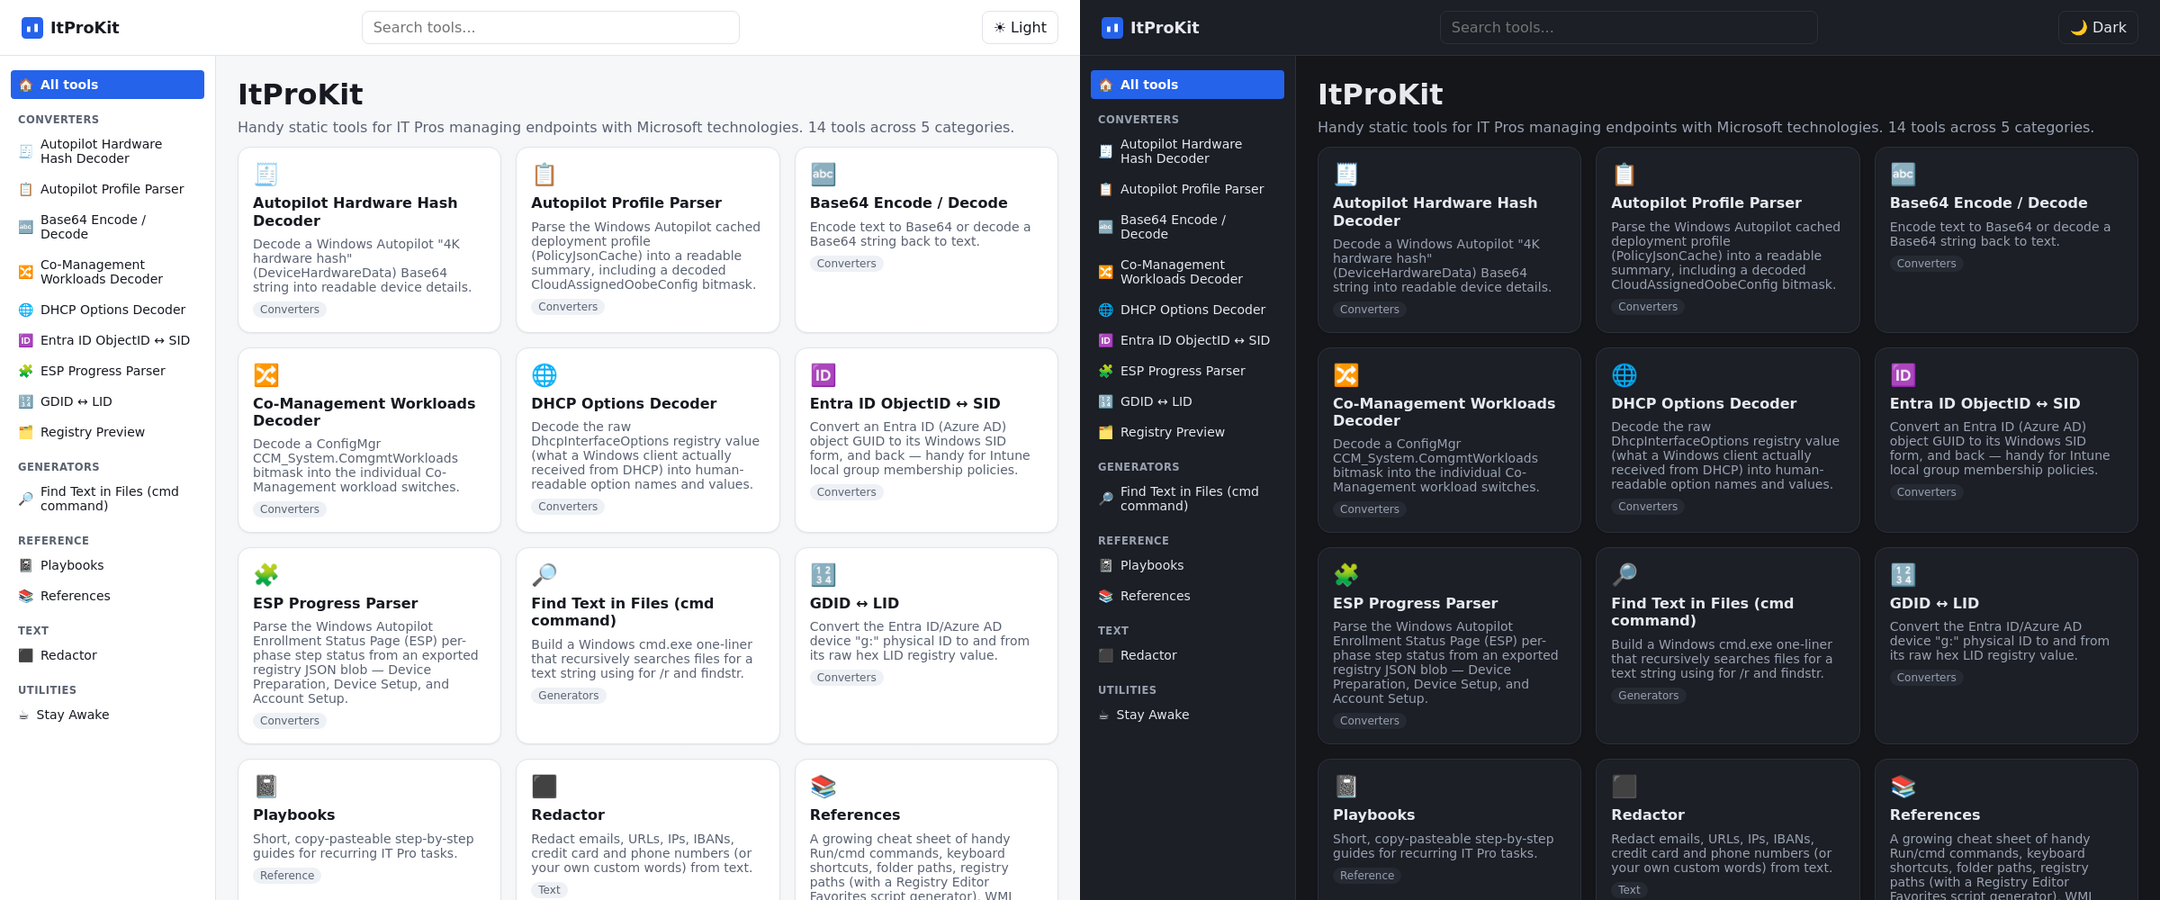
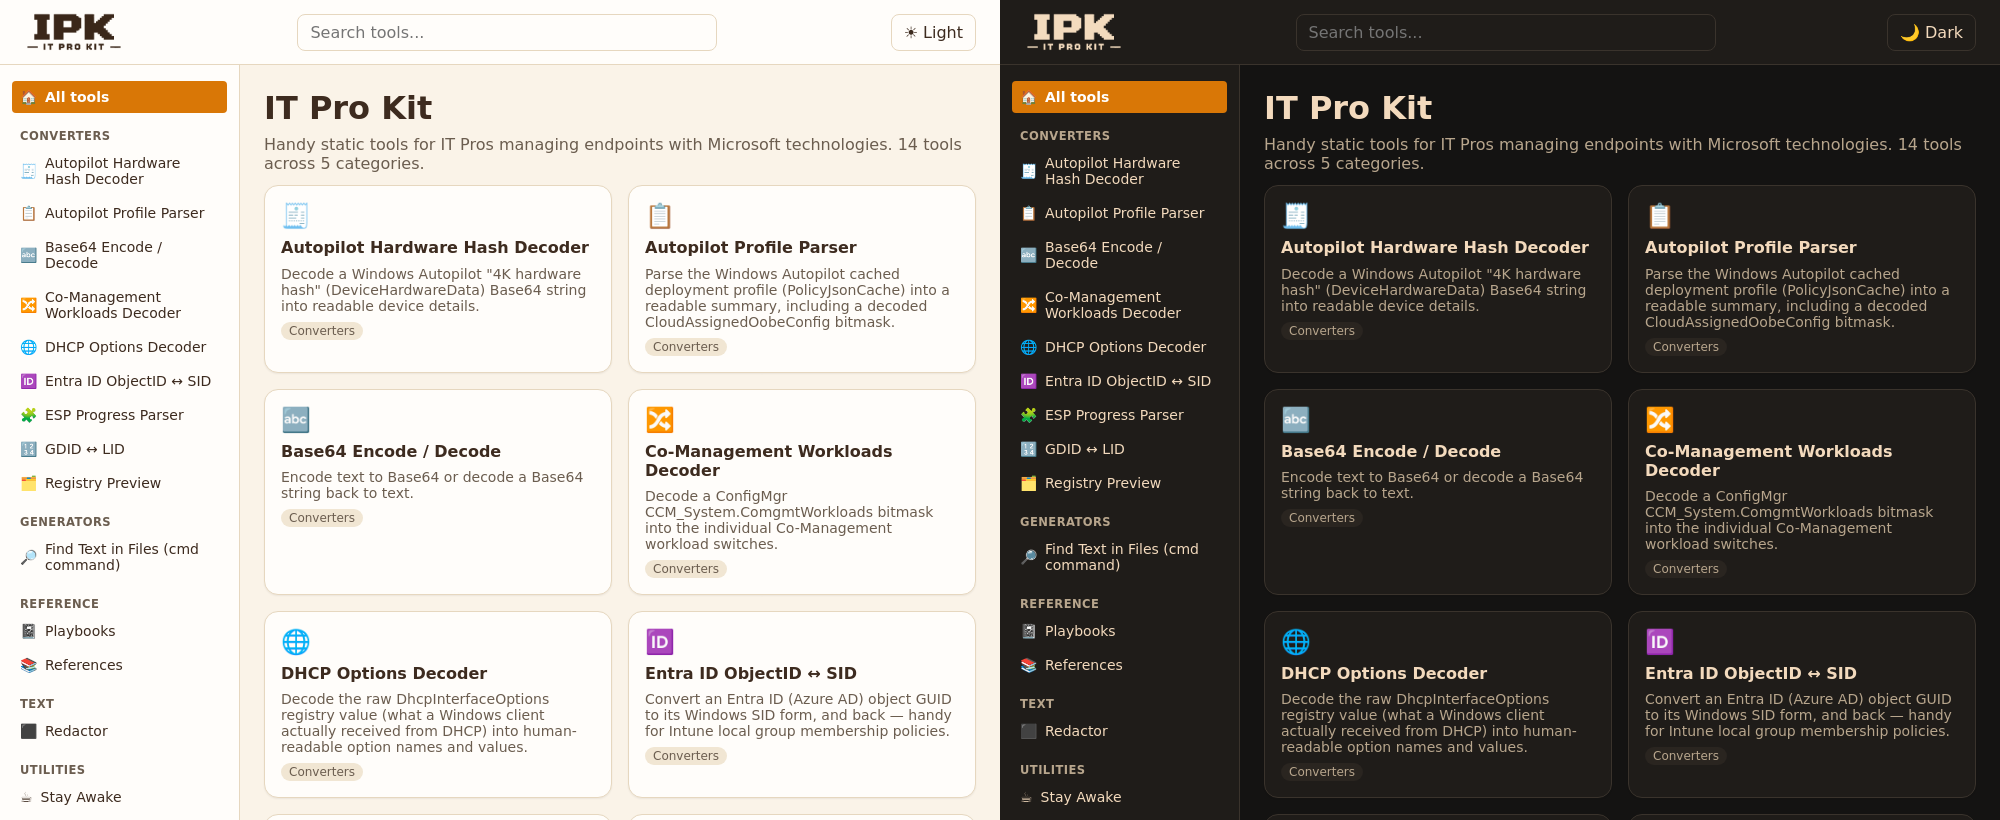
feat(about): add license, author, and contributing sections; fix sidebar nav
- Add MIT LICENSE and reference it from package.json and the About page
- Add an Author row noting the project is maintained in a private capacity
- Add a Contributing section pointing to GitHub Issues/PRs
- Box the changelog like the other About cards, with a Details title on the
  first card
- Remove the stray release-it note left at the end of CHANGELOG.md
- Move the About sidebar link into the scrollable nav flow instead of
  pinning it to the bottom of the viewport
- Drop the redundant README H1 (the logo already shows the name) and
  refresh the dashboard screenshot for the new branding/theme

Copilot-Session: 0ea02556-cd5a-4635-be87-623a774aacdc

diff --git a/src/tools/about/index.ts b/src/tools/about/index.ts
@@ -6,7 +6,7 @@ import { hasReleaseEntries, renderChangelogHtml } from "./changelog";
 const tool: ToolDefinition = {
   id: "about",
   name: "About",
-  description: "ItProKit's version, source repository, and release changelog.",
+  description: "IPK's version, source repository, and release changelog.",
   category: "About",
   icon: "ℹ",
   // Linked from a pinned sidebar footer link (see layout.ts), not listed as a
@@ -21,30 +21,66 @@ const tool: ToolDefinition = {
     container.innerHTML = `
       <div class="abt-tool">
         <section class="abt-card">
+          <h2 class="abt-details-title">Details</h2>
           <dl class="abt-facts">
             <dt>Version</dt>
-            <dd><span class="abt-tag">v${__APP_VERSION__}</span></dd>
+            <dd><button type="button" class="abt-tag abt-version" title="v${__APP_VERSION__}">v${__APP_VERSION__}</button></dd>
             <dt>Source</dt>
             <dd>${repoHtml}</dd>
+            <dt>Author</dt>
+            <dd>
+              <a href="https://github.com/MrWyss-MSFT" target="_blank" rel="noopener noreferrer">MrWyss-MSFT</a>
+              <span class="abt-muted"> — maintained in a private capacity.</span>
+            </dd>
+            <dt>License</dt>
+            <dd>
+              ${
+                repoUrl
+                  ? `<a href="${repoUrl}/blob/main/LICENSE" target="_blank" rel="noopener noreferrer">MIT</a>`
+                  : `MIT`
+              }
+            </dd>
           </dl>
-          <p class="abt-note">
-            Releases are cut with <a href="https://github.com/release-it/release-it" target="_blank" rel="noopener noreferrer">release-it</a>.
-            Use <a href="https://www.conventionalcommits.org/" target="_blank" rel="noopener noreferrer">Conventional Commits</a>
-            (<code>feat:</code>, <code>fix:</code>, <code>chore:</code>, …), then run
-            <code>npm run release</code> to bump the version, update this changelog, and tag the release.
+          <img class="abt-mascot" src="mascot.png" alt="IPK mascot: a grandma happily typing on a laptop" hidden />
+        </section>
+
+        <section class="abt-card">
+          <h2 class="abt-contrib-title">Contributing</h2>
+          <p>
+            Contributions are welcome! Feel free to open a pull request, or file an
+            issue for bugs and feature requests on
+            ${
+              repoUrl
+                ? `<a href="${repoUrl}/issues" target="_blank" rel="noopener noreferrer">GitHub Issues</a>`
+                : `GitHub Issues`
+            }.
           </p>
         </section>
 
-        <h2 class="abt-changelog-title">Changelog</h2>
-        <div class="abt-changelog">
-          ${
-            hasReleaseEntries(rawChangelog)
-              ? renderChangelogHtml(rawChangelog)
-              : `<p class="abt-muted">No releases yet - run <code>npm run release</code> to cut the first one.</p>`
-          }
-        </div>
+        <section class="abt-card">
+          <h2 class="abt-changelog-title">Changelog</h2>
+          <div class="abt-changelog">
+            ${
+              hasReleaseEntries(rawChangelog)
+                ? renderChangelogHtml(rawChangelog)
+                : `<p class="abt-muted">No releases yet - run <code>npm run release</code> to cut the first one.</p>`
+            }
+          </div>
+        </section>
       </div>
     `;
+
+    // Easter egg: tap the version badge a few times to reveal the mascot.
+    const versionButton = container.querySelector<HTMLButtonElement>(".abt-version");
+    const mascot = container.querySelector<HTMLImageElement>(".abt-mascot");
+    const TAPS_REQUIRED = 5;
+    let taps = 0;
+    versionButton?.addEventListener("click", () => {
+      taps += 1;
+      if (taps >= TAPS_REQUIRED) {
+        mascot?.removeAttribute("hidden");
+      }
+    });
   },
 };
 

diff --git a/src/tools/about/style.css b/src/tools/about/style.css
@@ -5,6 +5,18 @@
   max-width: 720px;
 }
 
+.abt-mascot {
+  display: block;
+  max-width: 220px;
+  width: 100%;
+  margin: var(--space-3) auto 0;
+  border-radius: var(--radius-md);
+}
+
+.abt-mascot[hidden] {
+  display: none;
+}
+
 .abt-card {
   border: 1px solid var(--border);
   border-radius: var(--radius-md);
@@ -16,7 +28,7 @@
   display: grid;
   grid-template-columns: auto 1fr;
   gap: var(--space-2) var(--space-3);
-  margin: 0 0 var(--space-3);
+  margin: var(--space-3) 0 0;
 }
 
 .abt-facts dt {
@@ -37,24 +49,28 @@
   color: var(--text);
 }
 
-.abt-note {
-  margin: 0;
-  font-size: 0.85rem;
-  color: var(--text-muted);
+.abt-version {
+  border: none;
+  font: inherit;
+  cursor: pointer;
+  user-select: none;
 }
 
-.abt-note code {
-  font-size: 0.8em;
-}
-
+.abt-details-title,
+.abt-contrib-title,
 .abt-changelog-title {
   margin: 0;
+}
+
+.abt-card p {
+  margin: var(--space-2) 0 0;
 }
 
 .abt-changelog {
   display: flex;
   flex-direction: column;
   gap: var(--space-1);
+  margin-top: var(--space-3);
 }
 
 .abt-changelog .abt-ver {

diff --git a/src/styles/components.css b/src/styles/components.css
@@ -229,9 +229,9 @@ textarea:focus {
 }
 
 .ipk-nav-footer {
-  flex: 0 0 auto;
+  margin-top: var(--space-4);
   border-top: 1px solid var(--border);
-  padding: var(--space-2) var(--space-3);
+  padding-top: var(--space-2);
 }
 
 .ipk-nav-footer .ipk-nav-link {

diff --git a/src/app/layout.ts b/src/app/layout.ts
@@ -141,8 +141,8 @@ function renderSidebar(nav: HTMLElement): void {
         <span>All tools</span>
       </a>
       ${groups}
+      ${renderSidebarFooter()}
     </div>
-    ${renderSidebarFooter()}
   `;
 }
 

diff --git a/README.md b/README.md
@@ -1,10 +1,10 @@
-# ItProKit (IPK)
+<img src="docs/logo.png" alt="IPK - IT Pro Kit" width="300" />
 
 **Fast, static, client-side tools for IT Pros managing Microsoft-managed endpoints — Intune, Autopilot, Entra ID, ConfigMgr, and Windows. No installs, no backend, nothing ever leaves your browser.**
 
 🔗 **Live site:** https://mrwyss-msft.github.io/ipk/
 
-![ItProKit dashboard screenshot](docs/screenshot.png)
+![IPK dashboard screenshot](docs/screenshot.png)
 
 ## Why
 
@@ -90,6 +90,10 @@ npm run build       # tsc --noEmit && vite build -> dist/
 npm run preview      # serve the production build locally
 npm run typecheck    # tsc --noEmit only
 ```
+
+## License
+
+[MIT](LICENSE)
 
 ## Contributing
 

diff --git a/CHANGELOG.md b/CHANGELOG.md
@@ -20,9 +20,3 @@
 ### Reverts
 
 * Revert "chore: auto-create GitHub Release on npm run release" ([653d102](https://github.com/MrWyss-MSFT/ipk/commit/653d102bbd77f61cf98adc32de0af63b92cc64c8))
-
-All notable changes to this project are documented here.
-
-This file is generated automatically by [release-it](https://github.com/release-it/release-it)
-(via `npm run release`) from [Conventional Commits](https://www.conventionalcommits.org/) — don't
-edit it by hand, your changes will be overwritten on the next release.
